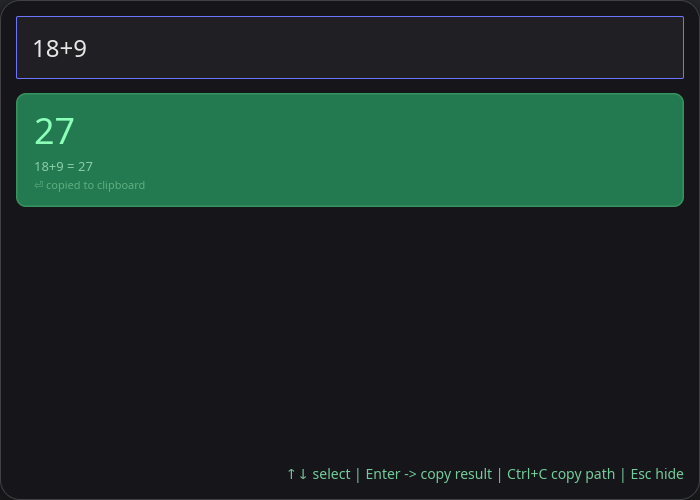
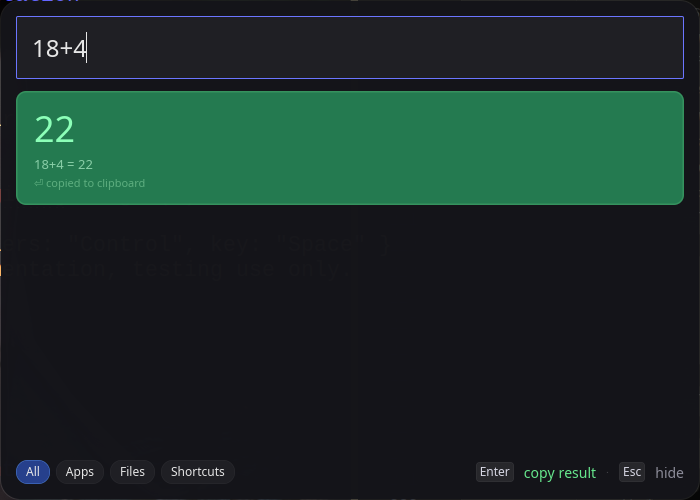
update documentations

diff --git a/README.md b/README.md
@@ -15,13 +15,14 @@ Built with ❤️ in Rust.
 
 - **Lightning fast** fuzzy search powered by `nucleo`
 - Global hotkey support (`Ctrl/Cmd + Space` by default)
-- Clean, modern UI with rounded corners
-- Keyboard navigation (`↑↓`, `Enter`, `Esc`, `Tab`)
+- Clean, modern UI with rounded corners and blur
+- Keyboard navigation (`↑↓`, `Enter`, `Esc`, `Tab`, `Ctrl+C`)
+- Filter results by **All / Applications / Files / Shortcuts**
 - Mouse support (click to select, double-click to launch, click outside to dismiss)
 - Supports **Linux `.desktop` files** and **macOS `.app`** bundles
-- Built-in calculator
-- Custom command shortcuts (command mode with slots)
-- Clipboard support
+- Built-in calculator with live preview
+- Custom command shortcuts with **command mode** (slot-based input via `> trigger`)
+- Clipboard support (copy paths/results with `Ctrl+C`)
 - Configurable via TOML
 - Starts hidden, low resource usage
 - Built with `iced` (Rust native UI)
@@ -43,7 +44,7 @@ Built with ❤️ in Rust.
 ```bash
 # Clone the repo
 git clone https://github.com/Timebom/nanocast.git
-cd nanocast/ui
+cd nanocast
 
 # Build and run
 cargo run --release
@@ -57,11 +58,13 @@ cargo run --release
 
 1. Run NanoCast (it runs in the background)
 2. Press **Ctrl** + **Space** (Linux) or **Cmd** + **Space** (macOS) to open
-3. Type to search applications or files
-4. Use arrow keys to navigate
-5. Press **Enter** to launch
+3. Type to search applications, files or commands
+4. Use arrow keys or mouse to navigate
+5. Press **Enter** to launch / **Ctrl+C** to copy
 6. Press **Esc** or click outside to close
-7. To quit: Type ```quit```, ```exit```, or ```kill``` and press Enter
+7. Use `F1`-`F3` to filter results
+8. Type `> trigger` for command mode with slots
+9. To quit: Type ```quit```, ```exit```, or ```kill``` and press Enter
 
 ## Configuration
 ### Configuration file is located at:
@@ -97,23 +100,8 @@ action_type = "open_url"
 command = "https://youtube.com/results?search_query={query}"
 ```
 
-## Building & Development
-
-```bash
-# Run in development
-cargo run
-
-# Build optimized release
-cargo build --release
-```
-
 ## Roadmap
 
-- [x] Better icon support (system icon themes on Linux)
-- [x] Calculator mode
-- [x] Custom shortcuts with command mode
-- [x] Mouse support (click/double-click)
-- [x] Quit command
 - [ ] Clipboard history
 - [ ] Window blur effects (macOS vibrancy + Linux)
 - [ ] Plugin system